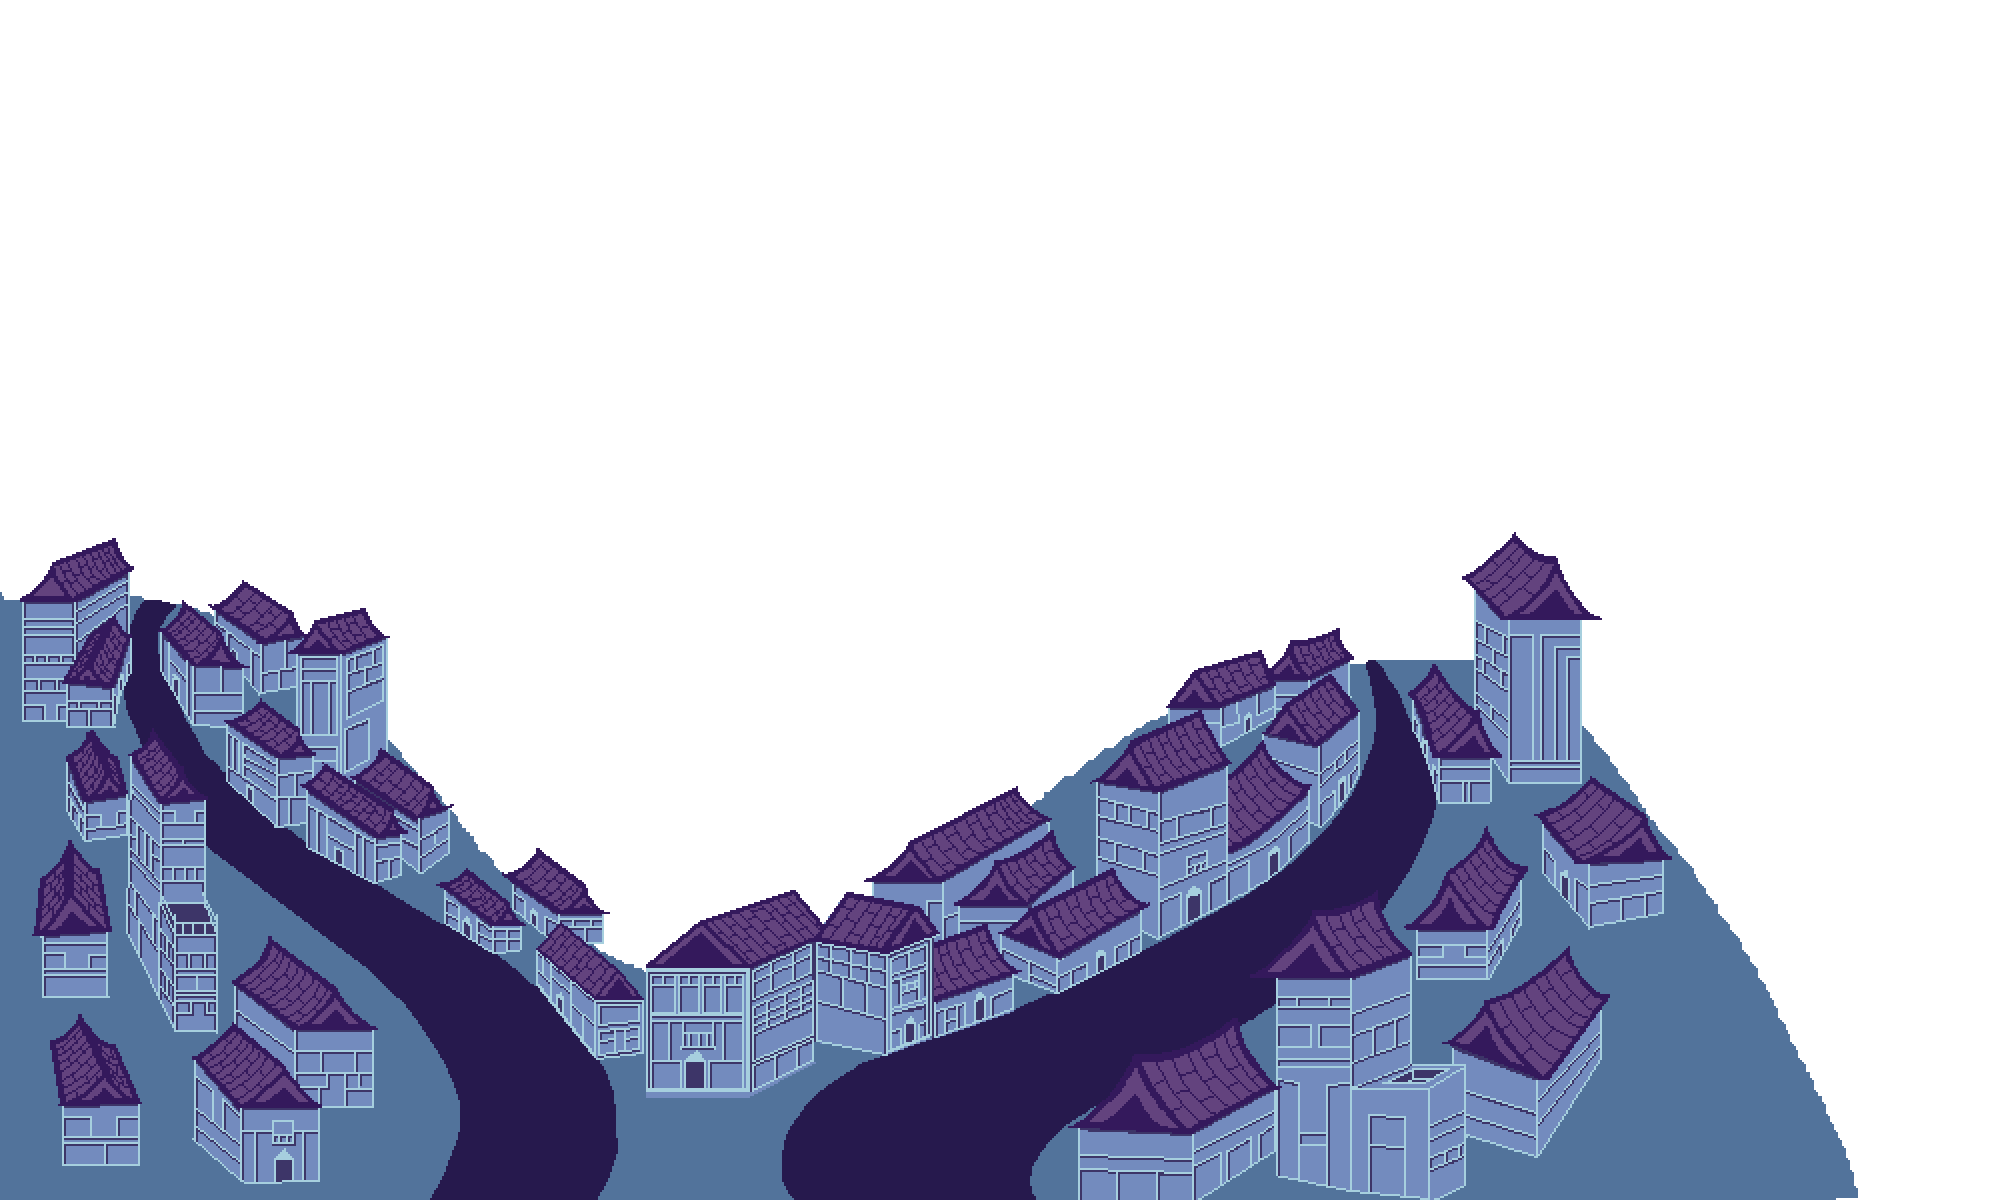
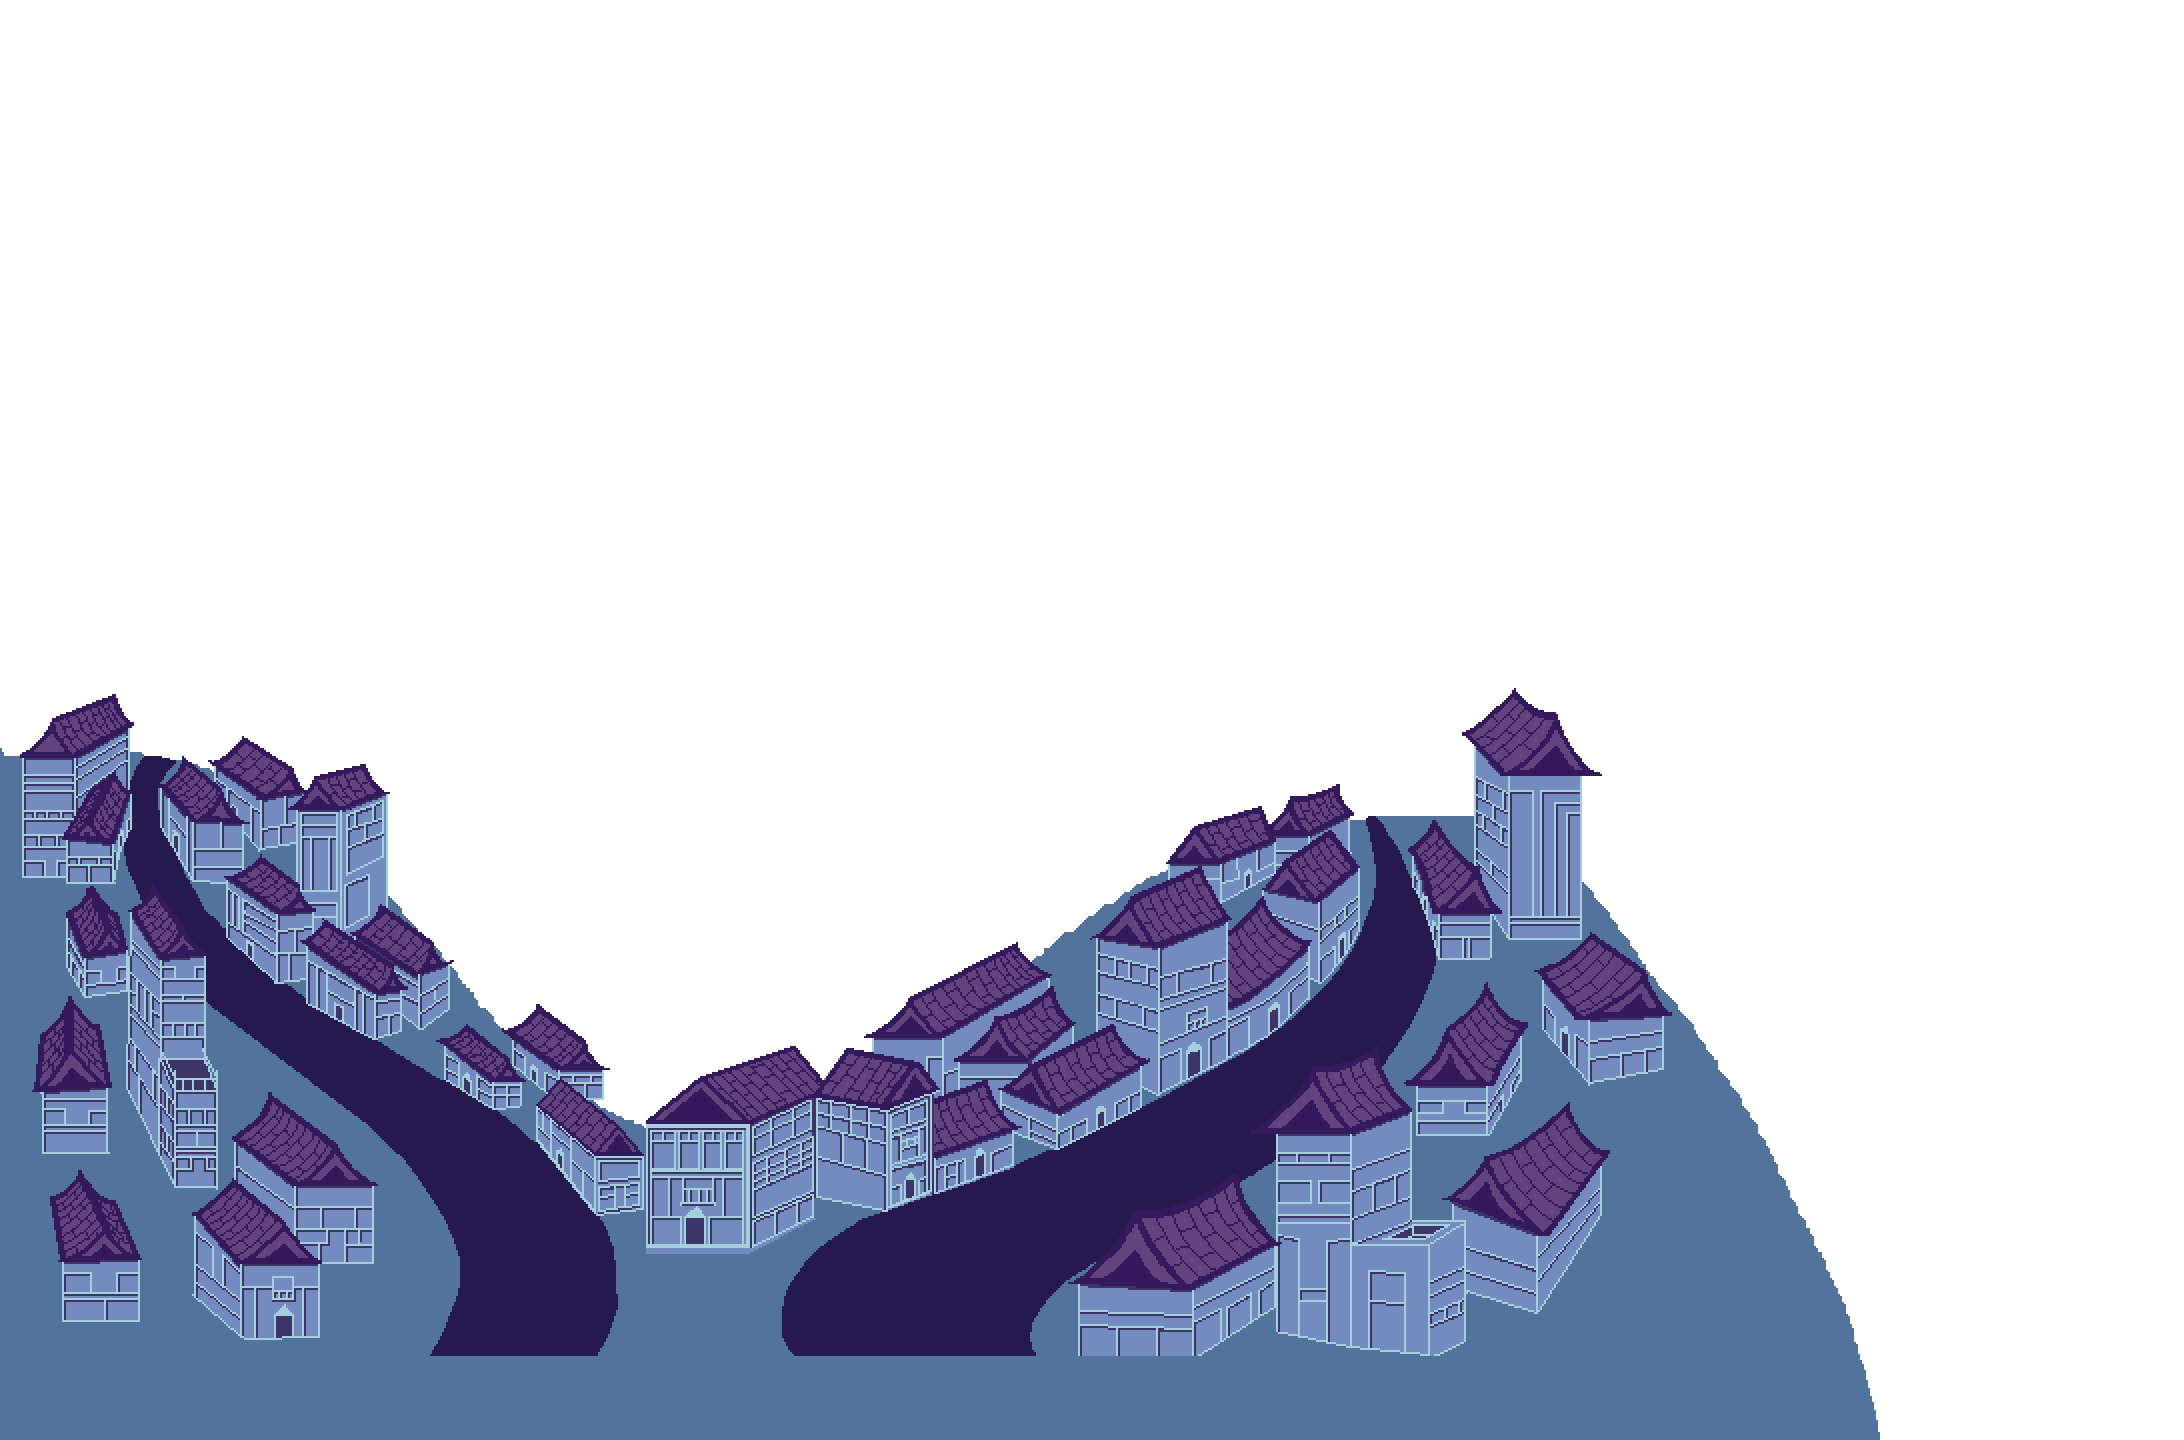
stage3 stuff

Changed region(s): [[0.0, 0.4317, 0.93, 1.0]]

diff --git a/src/Stage2.cpp b/src/Stage2.cpp
@@ -13,7 +13,7 @@
 
 Stage2::Stage2() : State(){
     backgroundMusic.Open("assets/audio/StageState.ogg");
-    tileSet = new TileSet(60, 60, "assets/img/Tileset01.png");
+    tileSet = new TileSet(60, 60, "assets/img/Tileset02.png");
 }
 
 Stage2::~Stage2(){
@@ -32,7 +32,7 @@ void Stage2::LoadAssets(){
         goBackground->AddComponent(bg);
 
         goBackground->box.x = 0;
-        goBackground->box.y = 0;
+        goBackground->box.y = 60*-1;
     cameraFollowerObjectArray.emplace_back(goBackground);
     
     GameObject* goBackground2 = new GameObject();
@@ -42,8 +42,9 @@ void Stage2::LoadAssets(){
 
 
         goBackground2->box.x = 0;
-        goBackground2->box.y = 0;
+        goBackground2->box.y = 60*2;
     cameraFollowerObjectArray.emplace_back(goBackground2);
+
     GameObject* goBackground3 = new GameObject();
         goBackground3->depth = -3;
         bg = new Sprite(*goBackground3, "assets/img/stage2/stg02bgl03.png");
@@ -60,18 +61,28 @@ void Stage2::LoadAssets(){
         goBackground4->AddComponent(bg);
 
 
-        goBackground4->box.x = 0;
-        goBackground4->box.y = 0;
+        goBackground4->box.x = 60*12;
+        goBackground4->box.y = 60*-5;
     cameraFollowerObjectArray.emplace_back(goBackground4);
 
+    // GameObject* goBackground5 = new GameObject();
+    //     goBackground5->depth = -5;
+    //     bg = new Sprite(*goBackground5, "assets/img/stage2/stg2bgcolor.png");
+    //     goBackground4->AddComponent(bg);
+
+
+    //     goBackground5->box.x = 0;
+    //     goBackground5->box.y = 0;
+    // cameraFollowerObjectArray.emplace_back(goBackground5);
+
     GameObject* goBackground5 = new GameObject();
-        goBackground5->depth = -5;
-        bg = new Sprite(*goBackground5, "assets/img/stage2/stg2bgcolor.png");
+        goBackground5->depth = -10;
+        bg = new Sprite(*goBackground5, "assets/img/stage2/stg02Moon.png");
         goBackground4->AddComponent(bg);
 
-
-        goBackground5->box.x = 0;
-        goBackground5->box.y = 0;
+        // goBackground5->AddComponent(new CameraFollower(*goBackground5));
+        goBackground5->box.x = 60*3.5;
+        goBackground5->box.y = 60;
     cameraFollowerObjectArray.emplace_back(goBackground5);
 
 
@@ -86,7 +97,7 @@ void Stage2::LoadAssets(){
     
 
     GameObject* player_GO = new GameObject();
-        player_GO->depth = 999;
+        player_GO->depth = 10;
 
 
         StateMachine* st = new StateMachine(*player_GO);
@@ -109,9 +120,7 @@ void Stage2::LoadAssets(){
 
     Camera::Follow(player_GO);
 
-    Camera::SetCameraFunction(&Camera::FollowTarget);
-    Camera::SetCameraTransition([]() -> bool {return Camera::pos.x >= 5967.5f;}, &Camera::Stationary);
-    Camera::Bounds = Rect(0,0, 60*84, 60*24);
+    
 
 
 
@@ -122,6 +131,10 @@ void Stage2::LoadAssets(){
         goTileMap->box.x = 0;
         goTileMap->box.y = 0;
     objectArray.emplace_back(goTileMap);
+
+    Camera::SetCameraFunction(&Camera::FollowTarget);
+    Camera::SetCameraTransition([]() -> bool {return Camera::pos.x >= 5967.5f;}, &Camera::Stationary);
+    Camera::Bounds = Rect(0,0, 60*tileMap->GetWidth(), 60*tileMap->GetHeight());
 }
 
 void Stage2::Start(){

diff --git a/src/TileMap.cpp b/src/TileMap.cpp
@@ -114,7 +114,7 @@ void TileMap::Load(std::string file){
                 break;
                 case(82)://45° pra esquerda
                     terrainbox->box.x = tileX+18;
-                    terrainbox->box.y = tileY+18;
+                    terrainbox->box.y = tileY+20;
                     terrainbox->box.h = tileSet->GetTileHeight()*sqrt(2);
                     terrainbox->box.w = tileSet->GetTileWidth()*sqrt(2);
                   
@@ -122,7 +122,7 @@ void TileMap::Load(std::string file){
                 break;
                 case(112)://45° pra esquerda teto
                     terrainbox->box.x = tileX+18;
-                    terrainbox->box.y = tileY-44;
+                    terrainbox->box.y = tileY-42;
                     terrainbox->box.h = tileSet->GetTileHeight()*sqrt(2);
                     terrainbox->box.w = tileSet->GetTileWidth()*sqrt(2);
                   
@@ -131,27 +131,27 @@ void TileMap::Load(std::string file){
                 case(84)://45° pra direita
                  
                     terrainbox->box.x = tileX-42;
-                    terrainbox->box.y = tileY+18;
+                    terrainbox->box.y = tileY+20;
                     terrainbox->box.h = tileSet->GetTileHeight()*sqrt(2);
                     terrainbox->box.w = tileSet->GetTileWidth()*sqrt(2);
                   
-                    terrainbox->angleDeg = -45;
+                    terrainbox->angleDeg = 45;
                         
                 break;
                 case(114)://45° pra direita teto
                  
                     terrainbox->box.x = tileX-42;
-                    terrainbox->box.y = tileY-44;
+                    terrainbox->box.y = tileY-42;
                     terrainbox->box.h = tileSet->GetTileHeight()*sqrt(2);
                     terrainbox->box.w = tileSet->GetTileWidth()*sqrt(2);
                   
-                    terrainbox->angleDeg = -45;
+                    terrainbox->angleDeg = 45;
                         
                 break;
 
                 case(26)://22.5° pra direita primeira metada
                     terrainbox->box.x = tileX+12;
-                    terrainbox->box.y = tileY+41;
+                    terrainbox->box.y = tileY+42;
                     terrainbox->box.h = tileSet->GetTileHeight()*sqrt(5)/2;
                     terrainbox->box.w = tileSet->GetTileWidth()*sqrt(5)/2;
                   

diff --git a/src/Sprite.cpp b/src/Sprite.cpp
@@ -67,22 +67,25 @@ void Sprite::Render()
     float paralax_mul;
     switch((int)associated.depth){//deepts -1 to -4 are afected  paralax
         case -1:
-            paralax_mul = 0.95;
+            paralax_mul = 0.925;
             break;
         case -2:
-            paralax_mul = 0.9;
-            break;
-        case -3:
             paralax_mul = 0.85;
             break;
+        case -3:
+            paralax_mul = 0.775;
+            break;
         case -4:
-            paralax_mul = 0.8;
+            paralax_mul = 0.7;
+            break;
+        case -10:
+            paralax_mul = 0;
             break;
         default:
             paralax_mul = 1;
             break;
     }
-    Render(associated.box.x - Camera::pos.x*paralax_mul, associated.box.y - Camera::pos.y);
+    Render(associated.box.x - Camera::pos.x*paralax_mul, associated.box.y - Camera::pos.y*paralax_mul);
 }
 
 void Sprite::Render(float x, float y){

diff --git a/src/Player.cpp b/src/Player.cpp
@@ -14,11 +14,11 @@
 using namespace std;
 #define p(x) cout << #x << ": " << x <<" ";
 
-#define nysize 0.7
-#define nxsize 0.4
+#define nysize 0.6
+#define nxsize 0.3
 
-#define nyoffset 18
-#define nycrouchoffset 41
+#define nyoffset 24
+#define nycrouchoffset 43
 #define nxoffset 0
 
 Player::Player(GameObject& associated):GameObject(associated){
@@ -449,7 +449,7 @@ void Player::Physics(float dt){
             float norm = speed.x/abs(speed.x);
             speed = Vec2( (speed.x - overspeed * norm * 0.5) , speed.y );          
         }
-        // limitar velocidade de queda
+        // limitar velocidade de queda //!! isso fode em frammerate alta provavel
         if(speed.y > MAX_FALL_SPEED*dt){         
             speed.y =  MAX_FALL_SPEED*dt;  
             float overspeed = abs(speed.y) - MAX_FALL_SPEED*dt;

diff --git a/src/TitleState.cpp b/src/TitleState.cpp
@@ -1,6 +1,7 @@
 #include "TitleState.h"
 #include "TestState.h"
 #include "Stage2.h"
+#include "Stage3.h"
 #include "Game.h"
 
 TitleState::TitleState() : State(){
@@ -47,7 +48,7 @@ void TitleState::Update(float dt){
         Game::GetInstance().Push(new TestState());
 
     if(inManager.KeyPress(A_KEY))
-        Game::GetInstance().Push(new Stage2());
+        Game::GetInstance().Push(new Stage3());
 
     UpdateArray(dt);
 }
